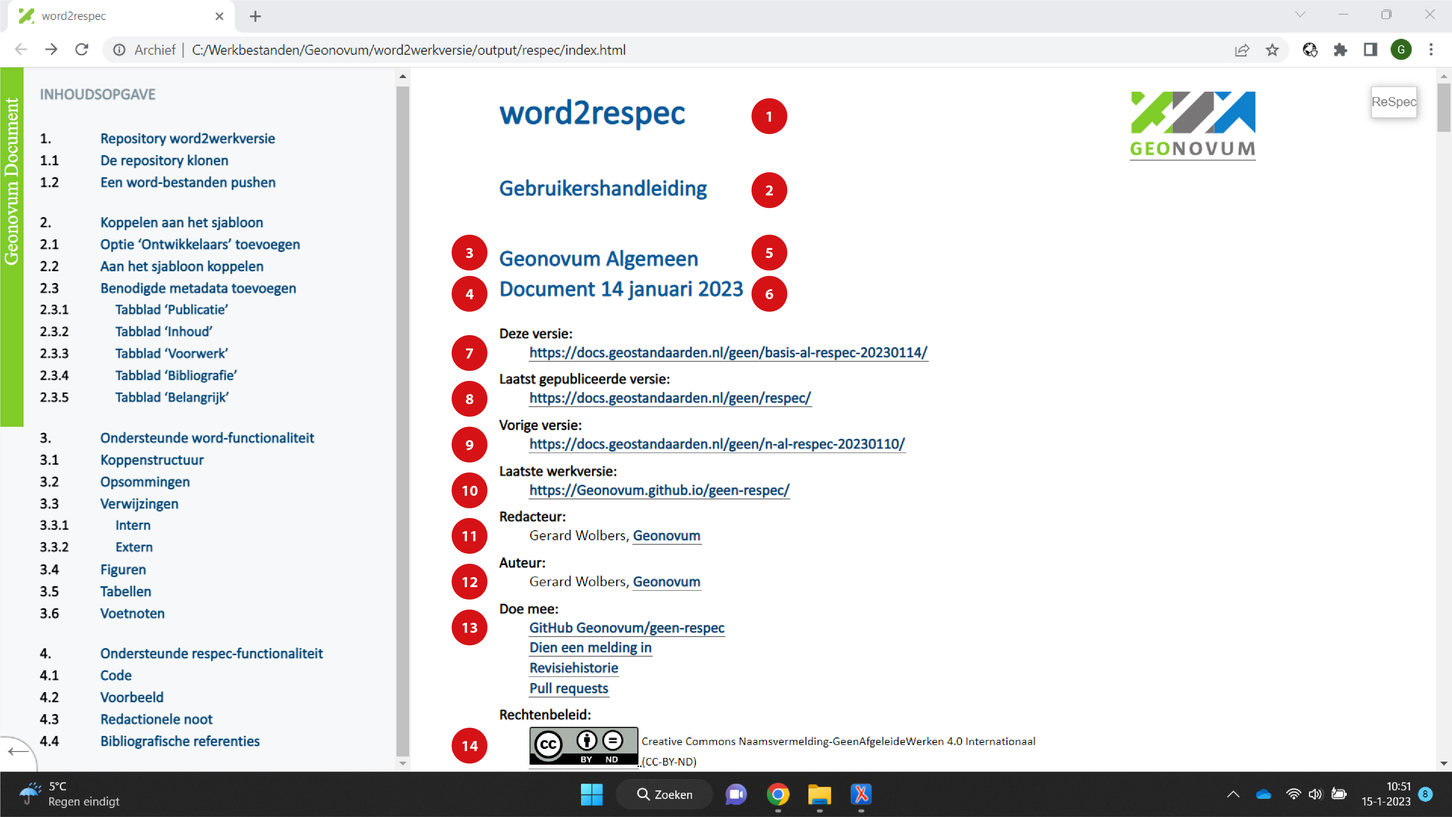
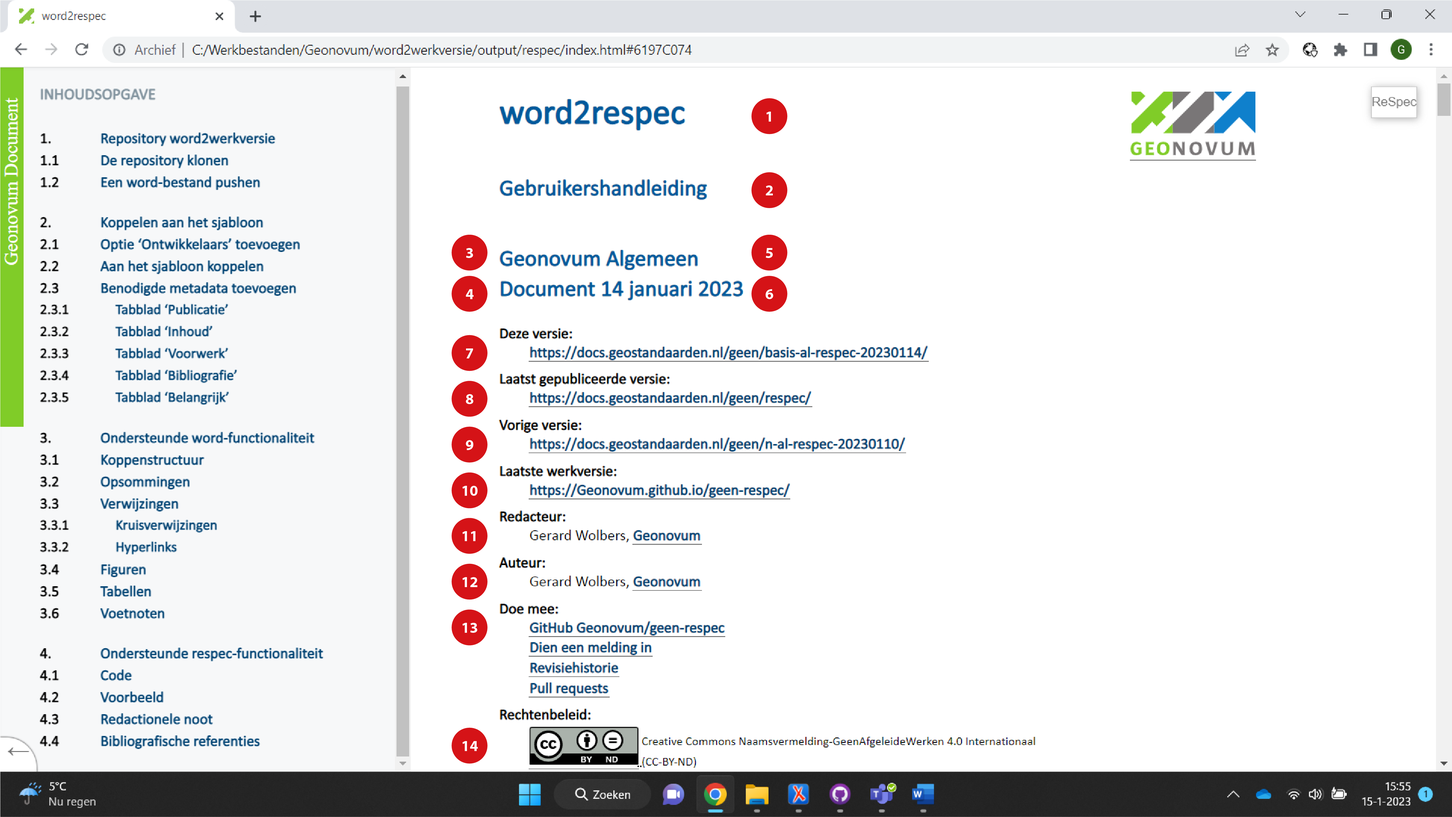
Update from https://github.com/Geonovum/word2werkversie/commit/2ee5777261af395d58a39a1c7ee38d574c74b922

diff --git a/index.html b/index.html
@@ -1,1 +1,12 @@
-<?xml version="1.0" encoding="UTF-8"?><!DOCTYPE html><html lang="nl"><head><meta content="text/html; charset=UTF-8" http-equiv="content-type"></meta><meta name="viewport" content="width=device-width, initial-scale=1, shrink-to-fit=no"></meta><title>word2respec</title><script src="https://tools.geostandaarden.nl/respec/builds/respec-geonovum.js"></script><script src="js/config.js"></script></head><body><link rel="stylesheet" type="text/css" href="css/style.css"></link><section id="abstract" class="remove"></section><section id="sotd" class="remove"></section><section id="6AE956A5" class="body"><h1 id="x1-6AE956A5">Repository word2werkversie</h1><p>In de repository word2werkversie is een workflow ingericht waarmee u zelf word-bestanden om kunt zetten naar een respec-werkversies. U heeft hiervoor een lokale kopie van de repository nodig.</p><section id="0209AAC7" class="body"><h2 id="x1-1-0209AAC7">De repository klonen</h2><p>Een handige applicatie voor het beheer van uw GitHub-repositories is GitHub Desktop.</p><figure><img src="media/image1.png" alt="media/image1.png" style="width: 100%;"></img><figcaption>Toevoegen van een repository</figcaption></figure><figure><img src="media/image2.png" alt="media/image2.png" style="width: 100%;"></img><figcaption>Zoek repository word2werkversie</figcaption></figure><p>Hiermee worden alle benodigde bestanden lokaal opgeslagen. De map word2werkversie/input bevat het sjabloon respec.dotm en het te converteren word-bestand. Er mag maar één docx-bestand in de map staan. Houd er rekening mee dat meer gebruikers de repository gebruiken. Uw word-bestand wordt dan verwijderd.</p></section><section id="6417117B" class="body"><h2 id="x1-2-6417117B">Een word-bestanden pushen</h2><p>De repository word2werkversie bevat een action dat het gepushte word-bestand omzet naar respec-bestanden en deze plaatst in een GitHub-repository.</p><figure><img src="media/image3.png" alt="media/image3.png" style="width: 100%;"></img><figcaption>Commit het word-bestand</figcaption></figure><figure><img src="media/image4.png" alt="media/image4.png" style="width: 100%;"></img><figcaption>Push het word-bestand</figcaption></figure><p>Na de push start op de GitHub-repository een action dat de transformatie uitvoert.</p><figure><img src="media/image5.png" alt="media/image5.png" style="width: 100%;"></img><figcaption>Overzicht van uitgevoerde transformaties</figcaption></figure><figure><img src="media/image6.png" alt="media/image6.png" style="width: 100%;"></img><figcaption>De nieuwe repository</figcaption></figure><figure><img src="media/image7.png" alt="media/image7.png" style="width: 100%;"></img><figcaption>De pages-variant</figcaption></figure></section></section><section id="06895138" class="body"><h1 id="x2-06895138">Koppelen aan het sjabloon</h1><p>Een bestaand word-bestand moet gekoppeld worden aan sjabloon respec.dotm. Hiervoor zijn in word verschillende stappen nodig.</p><ol><li><p>Voeg aan het menu optie ‘Ontwikkelaars’ toe. Dit is een eenmalige handeling.</p></li><li><p>Koppel het word-bestand aan het sjabloon.</p></li><li><p>Vul alle benodigde metadata in.</p></li></ol><section id="6557F24B" class="body"><h2 id="x2-1-6557F24B">Optie ‘Ontwikkelaars’ toevoegen</h2><p>Standaard staat in word de optie ‘Ontwikkelaars’ uit. Deze zet u aan bij menu-optie ‘Bestand’, ‘Opties’. Bij ‘Lint aanpassen’ vinkt u optie ‘Ontwikkelaars’ aan. Deze verschijnt dan in het menu.</p><figure><img src="media/image8.png" alt="media/image8.png" style="width: 100%;"></img><figcaption>Vink optie ‘Ontwikkelaars’ aan</figcaption></figure></section><section id="5C4981C0" class="body"><h2 id="x2-2-5C4981C0">Aan het sjabloon koppelen</h2><p>Bij menu-optie ‘Onwikkelaars’ ziet u in de werkbalk rechts de optie ‘Documentsjabloon’. Als u deze selecteert, krijgt u het volgende scherm.</p><figure><img src="media/image9.png" alt="media/image9.png" style="width: 100%;"></img><figcaption>Scherm ‘Sjablonen en invoegtoepassingen’</figcaption></figure><p>Met ‘Bijvoegen’ selecteert u sjabloon respec.dotm in de map ‘input’ van uw lokale repository. Er verschijnt een nieuwe menu-optie ‘Respec’.</p></section><section id="6197C074" class="body"><h2 id="x2-3-6197C074">Benodigde metadata toevoegen</h2><p>Om het word-bestand goed te kunnen transformeren naar een nieuwe respec-werkversie moet u metadata meegeven. Hiervoor heeft de respec-werkbalk links de optie ‘Document’.</p><figure><a name="_Ref124667820"></a><img src="media/image10.png" alt="media/image10.png" style="width: 100%;"></img><figcaption><a name="_Ref124667820"></a>Het voorblad wordt ‘gevoed’ vanuit scherm ‘Document’</figcaption></figure><section id="36478F31" class="body"><h3 id="x2-3-1-36478F31">Tabblad ‘Publicatie’</h3><p>Voor de publicatie zijn onderstaande gegevens van belang (zie <a href="#_Ref124667820">Figuur 10</a>).</p><ul><li><p>Titel (1) wordt gebruikt in het voorwerk van de publicatie.</p></li><li><p>Subtitel (2) is optioneel.</p></li><li><p>Identifier wordt gebruikt in verschillende url’s. Als de identifier is weggelaten wordt er een uri-bestendige variant van de titel als identifier gebruikt.</p></li><li><p>Domein verwijst naar het project. In dit geval is er geen domein. Het domein is heel belangrijk in de opbouw van de url’s.</p></li><li><p>Status (4) van het document geeft aan in welk stadium de publicatie is.</p></li><li><p>Type (5) geeft het type publicatie aan.</p></li><li><p>Licentie (14) geeft aan onder welke licentie het document wordt gepubliceerd.</p></li><li><p>Publicatiedatum (7) wordt gebruikt als versie-aanduiding in de url.</p></li><li><p>Voorgaande publicatiedatum (9) wordt gebruikt als versie-aanduiding in de url van de vorige versie. Als deze wordt weggelaten, dan wordt ‘Vorige versie’ niet getoond.</p></li><li><p>Status van de voorgaande publicatie wordt gebruikt om de url samen te stellen.</p></li><li><p>GitHub geeft aan of het blok ‘Doe mee’ (13) wordt getoond.</p></li></ul><figure><img src="media/image11.png" alt="media/image11.png" style="width: 73.33279012748055%;"></img><figcaption>Tabblad ‘Publicatie’</figcaption></figure></section><section id="1DA7B3C6" class="body"><h3 id="x2-3-2-1DA7B3C6">Tabblad ‘Inhoud’</h3><p>Respec heeft meer informatie nodig over de opbouw van de publicatie. Op basis hiervan verandert de werking. In het scherm worden alle hoofdstukken opgesomd. Voorwaarde is wel dat de koppenstructuur (zie <a href="#_Ref124671954">3.1</a>) met opmaakprofiel ‘Kop 1’ is aangegeven. Respec zet dit om naar html-secties. Van elke sectie kunnen we op het hoogste niveau het type en het soort informatie opgeven.</p><ul><li><p>Het type sectie geeft aan of het voorwerk of een bijlage is. Bij optie ‘Voorwerk’ wordt het weggelaten uit de inhoudsopgave. De koppen krijgen in de publicatie geen nummering. Bij optie ‘Bijlage’ wordt de nummering met kapitale letters aangegeven.</p></li><li><p class="space-after">Bij het soort informatie is er één optie ‘Informatief’. Als de optie wordt weggelaten, ziet respec het als normatieve informatie. Als een sectie wordt gemarkeerd als informatief, dan wordt onder de kop de tekst ‘Dit onderdeel is niet normatief’ weergegeven. Daarnaast worden bibliografische verwijzingen (zie <a href="#_Ref124671880">4.4</a>) aangegeven als ‘Informatieve referenties’.</p></li></ul><figure><img src="media/image12.png" alt="media/image12.png" style="width: 73.33279012748055%;"></img><figcaption>Tabblad ‘Inhoud’</figcaption></figure></section><section id="59427DAE" class="body"><h3 id="x2-3-3-59427DAE">Tabblad ‘Voorwerk’</h3><p>Met dit tabblad worden de auteurs (12) en redacteuren (11) opgegeven. Zie ook <a href="#_Ref124667820">Figuur 10</a> voor de nummering. Er is minimaal één redacteur nodig, auteurs zijn optioneel. U voegt een auteur of redacteur toe met optie ‘Nieuw’. Vul daarna naam, bedrijfsnaam en url van het bedrijf in. De url moet volledig zijn, dus inclusief ‘https://’.</p><figure><img src="media/image13.png" alt="media/image13.png" style="width: 73.33279012748055%;"></img><figcaption>Tabblad ‘Voorwerk’</figcaption></figure></section><section id="47906F38" class="body"><h3 id="x2-3-4-47906F38">Tabblad ‘Bibliografie’</h3></section><section id="01606068" class="body"><h3 id="x2-3-5-01606068">Tabblad ‘Belangrijk’</h3></section></section></section><section id="2E63D1F3" class="body"><h1 id="x3-2E63D1F3">Ondersteunde word-functionaliteit</h1><section id="2E987008" class="body"><h2 id="x3-1-2E987008"><a name="_Ref124671954"></a>Koppenstructuur</h2></section><section id="10DDDABF" class="body"><h2 id="x3-2-10DDDABF">Opsommingen</h2></section><section id="15D453C9" class="body"><h2 id="x3-3-15D453C9">Verwijzingen</h2><section id="5606CB85" class="body"><h3 id="x3-3-1-5606CB85">Intern</h3></section><section id="724923FE" class="body"><h3 id="x3-3-2-724923FE">Extern</h3></section></section><section id="27284A38" class="body"><h2 id="x3-4-27284A38">Figuren</h2></section><section id="4FB3FFF7" class="body"><h2 id="x3-5-4FB3FFF7">Tabellen</h2></section><section id="476F745B" class="body"><h2 id="x3-6-476F745B">Voetnoten</h2></section></section><section id="15D08FC1" class="body"><h1 id="x4-15D08FC1">Ondersteunde respec-functionaliteit</h1><section id="692AB1A3" class="body"><h2 id="x4-1-692AB1A3">Code</h2></section><section id="13F17295" class="body"><h2 id="x4-2-13F17295">Voorbeeld</h2></section><section id="47F487E8" class="body"><h2 id="x4-3-47F487E8">Redactionele noot</h2></section><section id="4083BE20" class="body"><h2 id="x4-4-4083BE20"><a name="_Ref124671880"></a>Bibliografische referenties</h2></section></section></body></html>
+<?xml version="1.0" encoding="UTF-8"?><!DOCTYPE html><html lang="nl"><head><meta content="text/html; charset=UTF-8" http-equiv="content-type"></meta><meta name="viewport" content="width=device-width, initial-scale=1, shrink-to-fit=no"></meta><title>word2respec</title><script src="https://tools.geostandaarden.nl/respec/builds/respec-geonovum.js"></script><script src="js/config.js"></script></head><body><link rel="stylesheet" type="text/css" href="css/style.css"></link><section id="abstract" class="remove"></section><section id="sotd" class="remove"></section><section id="6AE956A5" class="body"><h1 id="x1-6AE956A5"><a name="_Repository_word2werkversie"></a>Repository word2werkversie</h1><p>In de repository word2werkversie is een workflow ingericht waarmee u zelf word-bestanden om kunt zetten naar een respec-werkversies. U heeft hiervoor een lokale kopie van de repository nodig.</p><section id="0209AAC7" class="body"><h2 id="x1-1-0209AAC7">De repository klonen</h2><p>Een handige applicatie voor het beheer van uw GitHub-repositories is GitHub Desktop.</p><figure><img src="media/image1.png" alt="media/image1.png" style="width: 100%;"></img><figcaption>Toevoegen van een repository</figcaption></figure><figure><img src="media/image2.png" alt="media/image2.png" style="width: 100%;"></img><figcaption>Zoek repository word2werkversie</figcaption></figure><p>Hiermee worden alle benodigde bestanden lokaal opgeslagen. De map word2werkversie/input bevat het sjabloon respec.dotm en het te converteren word-bestand. Er mag maar één docx-bestand in de map staan. Houd er rekening mee dat meer gebruikers de repository gebruiken. Uw word-bestand wordt dan verwijderd.</p></section><section id="6417117B" class="body"><h2 id="x1-2-6417117B">Een word-bestand pushen</h2><p>De repository word2werkversie bevat een action dat het gepushte word-bestand omzet naar respec-bestanden en deze plaatst in een GitHub-repository.</p><figure><img src="media/image3.png" alt="media/image3.png" style="width: 100%;"></img><figcaption>Commit het word-bestand</figcaption></figure><figure><img src="media/image4.png" alt="media/image4.png" style="width: 100%;"></img><figcaption>Push het word-bestand</figcaption></figure><p>Na de push start op de GitHub-repository een action dat de transformatie uitvoert.</p><figure><img src="media/image5.png" alt="media/image5.png" style="width: 100%;"></img><figcaption>Overzicht van uitgevoerde transformaties</figcaption></figure><figure><img src="media/image6.png" alt="media/image6.png" style="width: 100%;"></img><figcaption>De nieuwe repository</figcaption></figure><figure><img src="media/image7.png" alt="media/image7.png" style="width: 100%;"></img><figcaption>De pages-variant</figcaption></figure></section></section><section id="06895138" class="body"><h1 id="x2-06895138">Koppelen aan het sjabloon</h1><p>Een bestaand word-bestand moet gekoppeld worden aan sjabloon respec.dotm. Hiervoor zijn in word verschillende stappen nodig.</p><ol><li><p>Voeg aan het menu optie ‘Ontwikkelaars’ toe. Dit is een eenmalige handeling.</p></li><li><p>Koppel het word-bestand aan het sjabloon.</p></li><li><p>Vul alle benodigde metadata in.</p></li></ol><section id="6557F24B" class="body"><h2 id="x2-1-6557F24B">Optie ‘Ontwikkelaars’ toevoegen</h2><p>Standaard staat in word de optie ‘Ontwikkelaars’ uit. Deze zet u aan bij menu-optie ‘Bestand’, ‘Opties’. Bij ‘Lint aanpassen’ vinkt u optie ‘Ontwikkelaars’ aan. Deze verschijnt dan in het menu.</p><figure><img src="media/image8.png" alt="media/image8.png" style="width: 100%;"></img><figcaption>Vink optie ‘Ontwikkelaars’ aan</figcaption></figure></section><section id="5C4981C0" class="body"><h2 id="x2-2-5C4981C0">Aan het sjabloon koppelen</h2><p>Bij menu-optie ‘Onwikkelaars’ ziet u in de werkbalk rechts de optie ‘Documentsjabloon’. Als u deze selecteert, krijgt u het volgende scherm.</p><figure><img src="media/image9.png" alt="media/image9.png" style="width: 100%;"></img><figcaption>Scherm ‘Sjablonen en invoegtoepassingen’</figcaption></figure><p>Met ‘Bijvoegen’ selecteert u sjabloon respec.dotm in de map ‘input’ van uw lokale repository. Met de optie ‘Stijlen van het document automatisch bijwerken’ kunt u de stijlen in het document overschrijven door de stijlen in het sjabloon. Dit heeft voordelen omdat u daarmee automatische nummeringen in de koppenstructuur importeert, maar heeft als nadeel dat uw vormgeving waarschijnlijk wijzigt.</p><p>Nadat u het document heeft gekoppeld aan het sjabloon zijn er twee belangrijke aanpassingen:</p><ul><li><p>Er verschijnt een nieuwe menu-optie ‘Respec’.</p></li><li><p>De optie ‘Plakken’ voegt alleen nog niet-opgemaakte Unicode-tekst toe. U kunt dit omzeilen met de optie ‘Plakken speciaal’ (Alt+Ctrl+V). Hiermee kunt u opgemaakte tekst toevoegen.</p></li></ul></section><section id="6197C074" class="body"><h2 id="x2-3-6197C074">Benodigde metadata toevoegen</h2><p>Om het word-bestand goed te kunnen transformeren naar een nieuwe respec-werkversie moet u metadata meegeven. Hiervoor heeft de respec-werkbalk links de optie ‘Document’.</p><figure><a name="_Ref124667820"></a><img src="media/image10.png" alt="media/image10.png" style="width: 100%;"></img><figcaption><a name="_Ref124667820"></a>Het voorblad wordt ‘gevoed’ vanuit scherm ‘Document’</figcaption></figure><section id="36478F31" class="body"><h3 id="x2-3-1-36478F31">Tabblad ‘Publicatie’</h3><p>Voor de publicatie zijn onderstaande gegevens van belang (zie <a href="#_Ref124667820">Figuur 10</a>).</p><ul><li><p>Titel (1) wordt gebruikt in het voorwerk van de publicatie.</p></li><li><p>Subtitel (2) is optioneel.</p></li><li><p>Identifier wordt gebruikt in verschillende url’s. Als de identifier is weggelaten wordt er een uri-bestendige variant van de titel als identifier gebruikt.</p></li><li><p>Domein verwijst naar het project. In dit geval is er geen domein. Het domein is heel belangrijk in de opbouw van de url’s.</p></li><li><p>Status (4) van het document geeft aan in welk stadium de publicatie is.</p></li><li><p>Type (5) geeft het type publicatie aan.</p></li><li><p>Licentie (14) geeft aan onder welke licentie het document wordt gepubliceerd.</p></li><li><p>Publicatiedatum (7) wordt gebruikt als versie-aanduiding in de url.</p></li><li><p>Voorgaande publicatiedatum (9) wordt gebruikt als versie-aanduiding in de url van de vorige versie. Als deze wordt weggelaten, dan wordt ‘Vorige versie’ niet getoond.</p></li><li><p>Status van de voorgaande publicatie wordt gebruikt om de url samen te stellen.</p></li><li><p>GitHub geeft aan of het blok ‘Doe mee’ (13) wordt getoond.</p></li></ul><figure><img src="media/image11.png" alt="media/image11.png" style="width: 73.33279012748055%;"></img><figcaption>Tabblad ‘Publicatie’</figcaption></figure></section><section id="1DA7B3C6" class="body"><h3 id="x2-3-2-1DA7B3C6"><a name="_Ref124693607"></a>Tabblad ‘Inhoud’</h3><p>Respec heeft meer informatie nodig over de opbouw van de publicatie. Op basis hiervan verandert de werking. In het scherm worden alle hoofdstukken opgesomd. Voorwaarde is wel dat de koppenstructuur (zie <a href="#_Ref124671954">3.1</a>) met stijl ‘Kop 1’ is aangegeven. Respec zet dit om naar html-secties. Van elke sectie kunnen we op het hoogste niveau het type en het soort informatie opgeven.</p><ul><li><p>Het type sectie geeft aan of het voorwerk of een bijlage is. Bij optie ‘Voorwerk’ wordt het weggelaten uit de inhoudsopgave. De koppen krijgen in de publicatie geen nummering. Bij optie ‘Bijlage’ wordt de nummering met kapitale letters aangegeven.</p></li><li><p class="space-after">Bij het soort informatie is er één optie ‘Informatief’. Als de optie wordt weggelaten, ziet respec het als normatieve informatie. Als een sectie wordt gemarkeerd als informatief, dan wordt onder de kop de tekst ‘Dit onderdeel is niet normatief’ weergegeven. Daarnaast worden bibliografische verwijzingen (zie <a href="#_Ref124671880">Figuur 23</a>) aangegeven als ‘Informatieve referenties’.</p></li></ul><p>Respec kan ook specifieke informatie toevoegen. U kunt deze aanvinken.</p><figure><img src="media/image12.png" alt="media/image12.png" style="width: 73.33279012748055%;"></img><figcaption>Tabblad ‘Inhoud’</figcaption></figure></section><section id="59427DAE" class="body"><h3 id="x2-3-3-59427DAE">Tabblad ‘Voorwerk’</h3><p>Met dit tabblad worden de auteurs (12) en redacteuren (11) opgegeven. Zie ook <a href="#_Ref124667820">Figuur 10</a> voor de nummering. Er is minimaal één redacteur nodig, auteurs zijn optioneel. U voegt een auteur of redacteur toe met optie ‘Nieuw’. Vul daarna naam, bedrijfsnaam en url van het bedrijf in. De url moet volledig zijn, dus inclusief ‘https://’. Als u een auteur of redacteur wilt verwijderen, selecteert u de desbetreffende naam en maakt u veld ‘Naam’ leeg.</p><figure><img src="media/image13.png" alt="media/image13.png" style="width: 73.33279012748055%;"></img><figcaption>Tabblad ‘Voorwerk’</figcaption></figure></section><section id="47906F38" class="body"><h3 id="x2-3-4-47906F38"><a name="_Ref124693355"></a>Tabblad ‘Bibliografie’</h3><p>Respec ondersteunt bibliografische referenties (zie <a href="#_Ref124671880">Figuur 23</a>). U kunt deze opgeven met tabblad ‘Bibliografie’. U voegt een publicatie toe met optie ‘Nieuw’. Vul daarna de onderstaande velden in. Alle velden zijn optioneel behalve veld ‘Titel’. Als u een publicatie wilt verwijderen, selecteert u de desbetreffende titel en maakt u veld ‘Titel’ leeg.</p><figure><img src="media/image14.png" alt="media/image14.png" style="width: 73.33279012748055%;"></img><figcaption>Tabblad ‘Bibliografie’</figcaption></figure></section><section id="01606068" class="body"><h3 id="x2-3-5-01606068">Tabblad ‘Belangrijk’</h3><p>Dit tabblad is voor de workflow word2werkversie niet van belang. De workflow word2publicatie gebruikt het om de definitieve publicatie op de server docs.geostandaarden.nl te plaatsen. In andere gevallen wordt de test-omgeving test.docs.geostandaarden.nl gebruikt.</p><figure><img src="media/image15.png" alt="media/image15.png" style="width: 73.33279012748055%;"></img><figcaption>Tabblad ‘Belangrijk’</figcaption></figure></section></section></section><section id="2E63D1F3" class="body"><h1 id="x3-2E63D1F3">Ondersteunde word-functionaliteit</h1><section id="2E987008" class="body"><h2 id="x3-1-2E987008"><a name="_Ref124671954"></a>Koppenstructuur</h2><p>Alle transformaties in de word2respec-workflow zijn gebaseerd op het gebruik van de stijlen ‘Kop 1’ t/m ‘Kop 9’. Overigens biedt dit veel extra mogelijkheden binnen word. Het venster ‘Stijlen’ opent (en sluit) u met toetscombinatie Alt+Ctrl-Shift+S.</p><figure><img src="media/image16.png" alt="media/image16.png" style="width: 100%;"></img><figcaption>Navigatie op basis van de koppenstructuur</figcaption></figure></section><section id="10DDDABF" class="body"><h2 id="x3-2-10DDDABF">Opsommingen</h2><p>Er zijn twee typen opsommingen, genummerd en met tekens. Hiervoor dient u de word-functie ‘Opsommingen’ te gebruiken. De opsommingen mogen gedefinieerd zijn in de stijl. De opsomming wordt omgezet naar opsommingen zoals ze voor het specifieke domein zijn gedefinieerd in het css-bestand. Dus het is mogelijk dat een opsomming met kapitale letters wordt omgezet naar Romeinse cijfers.</p></section><section id="15D453C9" class="body"><h2 id="x3-3-15D453C9">Verwijzingen</h2><p>Omdat de koppenstructuur, figuurnummers en tabelnummers worden gegenereerd door respec, is het niet verstandig om verwijzingen als tekst op te nemen. Dit kan op twee manieren:</p><ul><li><p>met kruisverwijzingen,</p></li><li><p>met interne verwijzingen.</p></li></ul><section id="44411ED5" class="body"><h3 id="x3-3-1-44411ED5"><a name="_Ref124680588"></a>Kruisverwijzingen</h3><p>Hiervoor gebruikt u de word-functie ‘Kruisverwijzing’ (Alt+Ctrl+Shift+K). Hiermee kunt u verwijzen naar alle mogelijke genummerde alinea’s.</p><figure><img src="media/image17.png" alt="media/image17.png" style="width: 59.99955555884772%;"></img><figcaption>Scherm ‘Kruisverwijzing’</figcaption></figure><figure><img src="media/image18.png" alt="media/image18.png" style="width: 100%;"></img><figcaption>Weergave van een kruiskoppeling in respec</figcaption></figure></section><section id="0A825EF3" class="body"><h3 id="x3-3-2-0A825EF3">Hyperlinks</h3><p>Ook hyperlinks worden doorgegeven in de respec-weergave. Met scherm ‘Hyperlink invoegen’ (Ctrl+K) voegt u een hyperlink toe, bijvoorbeeld naar hoofdstuk <a href="#6AE956A5">Repository word2werkversie</a>.</p><figure><img src="media/image19.png" alt="media/image19.png" style="width: 100%;"></img><figcaption>Scherm voor het invoegen en bewerken van hyperlinks</figcaption></figure><figure><img src="media/image20.png" alt="media/image20.png" style="width: 100%;"></img><figcaption>Weergave van een hyperlink in respec</figcaption></figure></section></section><section id="27284A38" class="body"><h2 id="x3-4-27284A38">Figuren</h2><p class="space-after">Het veiligst is om figuren met tekstomloop ‘In tekstregel’ te gebruiken. De transformatie moet namelijk weten waar in de tekst een figuur ‘verankerd’ is. Dit is in word de standaard-mogelijkheid voor het plaatsen van figuren. De omvang van een figuur wordt berekend aan de hand van de breedte. De verhouding tussen de figuurbreedte en tekstbreedte wordt gebruikt in de uiteindelijke respec-weergave. Als de figuurbreedte meer dan 90% van de tekstbreedte is, wordt het uitgevuld naar de volledige tekstbreedte.</p><p>Het is mogelijk om met kruisverwijzingen (zie <a href="#_Ref124680588">3.3.1</a>) te verwijzen naar een figuur. De alinea onder de figuur wordt omgezet naar een figuurbijschrift als u het markeert met stijl ‘Figuurbijschrift’ of ‘Bijschrift’.</p></section><section id="4FB3FFF7" class="body"><h2 id="x3-5-4FB3FFF7">Tabellen</h2><p>Tabellen worden volledig door de workflow word2respec ondersteund:</p><ul><li><p>Tabelstijlen en tabeleigenschappen worden ondersteund.</p></li><li><p>De celopmaak wordt overgenomen.</p></li><li><p>Kolombreedte wordt overgenomen.</p></li><li><p class="space-after">Samengevoegde cellen verticaal en horizontaal worden ondersteund.</p></li></ul><p>Als u de alinea boven de tabel markeert met stijl ‘Tabeltitel’ of ‘Bijschrift’, dan wordt de alinea verwerkt als tabeltitel. In de tekst kunt u verwijzen naar de tabeltitel (zie <a href="#_Ref124680588">3.3.1</a>). Merk op dat respec in de weergave de tabeltitel niet weergeeft met een nummering. Onderstaand is een voorbeeldtekst.</p><table style="width: 100%;"><caption>Vergelijking met huidige rechtsfiguren en RO Standaarden</caption><colgroup><col id="col1" style="width: 35.00117730162467%;"></col><col id="col2" style="width: 64.99882269837532%;"></col></colgroup><thead valign="top"><tr><th align="left" style="border-top: 0.5pt solid #000000; border-left: 0.5pt solid #000000; border-bottom: 0.5pt solid #000000; border-right: 0.5pt solid #000000; background-color: #000000;"><p><b><span style="color: #FFFFFF;">Onderwerp</span></b></p></th><th align="left" style="border-top: 0.5pt solid #000000; border-left: 0.5pt solid #000000; border-bottom: 0.5pt solid #000000; border-right: 0.5pt solid #000000; background-color: #000000;"><p><b><span style="color: #FFFFFF;">Specificatie</span></b></p></th></tr></thead><tbody valign="top"><tr><td align="left" style="border-top: 0.5pt solid #000000; border-left: 0.5pt solid #000000; border-bottom: 0.5pt solid #000000; border-right: 0.5pt solid #000000; background-color: #FFFFFF;"><p><span style="color: #000000;">Vergelijkbaar met / voortzetting van huidige rechtsfiguur</span></p></td><td align="left" style="border-top: 0.5pt solid #000000; border-left: 0.5pt solid #000000; border-bottom: 0.5pt solid #000000; border-right: 0.5pt solid #000000; background-color: #FFFFFF;"><ul><li><p><span style="color: #000000;">bestemmingsplan, uitwerkingsplan, wijzigingsplan en inpassingsplan op basis van Wro</span></p></li><li><p><span style="color: #000000;">beheersverordening op basis van Wro</span></p></li><li><p><span style="color: #000000;">bestemmingsplan met verbrede reikwijdte op basis van Crisis- en herstelwet</span></p></li><li><p><span style="color: #000000;">welstandsnota op basis van Woningwet</span></p></li><li><p><span style="color: #000000;">erfgoedverordening op basis van Monumentenwet</span></p></li><li><p><span style="color: #000000;">algemene plaatselijke verordening op basis van Gemeentewet</span></p></li><li><p><span style="color: #000000;">…</span></p></li></ul></td></tr><tr><td align="left" style="border-top: 0.5pt solid #000000; border-left: 0.5pt solid #000000; border-bottom: 0.5pt solid #000000; border-right: 0.5pt solid #000000; background-color: #FFFFFF;"><p><span style="color: #000000;">Voortzetting van instrument in RO Standaarden</span></p></td><td align="left" style="border-top: 0.5pt solid #000000; border-left: 0.5pt solid #000000; border-bottom: 0.5pt solid #000000; border-right: 0.5pt solid #000000; background-color: #FFFFFF;"><p><span style="color: #000000;">Ja, bestemmingsplan en beheersverordening</span></p></td></tr><tr><td align="left" style="border-top: 0.5pt solid #000000; border-left: 0.5pt solid #000000; border-bottom: 0.5pt solid #000000; border-right: 0.5pt solid #000000; background-color: #FFFFFF;"><p><span style="color: #000000;">INSPIRE-thema</span></p></td><td align="left" style="border-top: 0.5pt solid #000000; border-left: 0.5pt solid #000000; border-bottom: 0.5pt solid #000000; border-right: 0.5pt solid #000000; background-color: #FFFFFF;"><p><span style="color: #000000;">Planned Land Use: SpatialPlan</span></p></td></tr></tbody></table></section><section id="476F745B" class="body"><h2 id="x3-6-476F745B">Voetnoten</h2><p class="space-after">De transformatie ondersteunt niet-complexe voetnoten. Onderstaand is een voorbeeldtekst.</p><p style="margin-left: 10.0mm;">Op grond van artikel 20.26 lid 2 Omgevingswet worden besluiten en andere rechtsfiguren op grond van die wet die bij ministeriële regeling zijn aangeduid als omgevingsdocument, ontsloten via DSO-LV. De bedoelde ministeriële regeling is de Regeling standaarden publicaties Omgevingswet<span class="noot">[1]<span class="noottekst"> De Regeling standaarden publicaties Omgevingswet is een ministeriële regeling bij de Bekendmakingswet<br/></span></span>. Deze regeling wijst besluiten en andere rechtsfiguren aan als omgevingsdocument en stelt het verplicht om die omgevingsdocumenten, en ontwerpen daarvan, elektronisch vorm te geven conform de Standaard voor Officiële Publicaties, het InformatieModel Omgevingswet en het voor het betreffende omgevingsdocument voorgeschreven toepassingsprofiel. Ook bevat deze regeling de verplichting om omgevingsdocumenten voor publicatie aan te bieden aan het Bronhouderkoppelvlak van de LVBB.</p><figure><img src="media/image21.png" alt="media/image21.png" style="width: 100%;"></img><figcaption>Respec-weergave van een voetnoot.</figcaption></figure></section></section><section id="15D08FC1" class="body"><h1 id="x4-15D08FC1">Ondersteunde respec-functionaliteit</h1><p>In respec-weergave komen tekstsoorten voor waarvoor we een specifieke word-opmaak hebben afgesproken.</p><section id="692AB1A3" class="body"><h2 id="x4-1-692AB1A3">Code</h2><p class="space-after">Een code-blok wordt in word aangegeven door het hele blok blauw te markeren. Onderstaand is voorbeeldtekst.</p><pre class="example"><code>&lt;xsl:template match="w14:checkbox"&gt;
+    &lt;xsl:element name="input"&gt;
+        &lt;xsl:attribute name="class" select="string('task-list-item-checkbox')"/&gt;
+        &lt;xsl:attribute name="id" select="generate-id(.)"/&gt;
+        &lt;xsl:attribute name="style" select="string('margin-right: 2mm;')"/&gt;
+        &lt;xsl:attribute name="type" select="string('checkbox')"/&gt;
+        &lt;xsl:if test="w14:checked/@w14:val=1"&gt;
+            &lt;xsl:attribute name="checked"/&gt;
+        &lt;/xsl:if&gt;
+    &lt;/xsl:element&gt;
+&lt;/xsl:template&gt;
+</code></pre></section><section id="13F17295" class="body"><h2 id="x4-2-13F17295">Voorbeeld</h2><p class="space-after">Een voorbeeld wordt aangegeven door de alinea geel te markeren. Onderstaand is voorbeeldtekst.</p><aside class="example"><p>Op grond van artikel 20.26 lid 2 Omgevingswet worden besluiten en andere rechtsfiguren op grond van die wet die bij ministeriële regeling zijn aangeduid als omgevingsdocument, ontsloten via DSO-LV. De bedoelde ministeriële regeling is de Regeling standaarden publicaties Omgevingswet<span class="noot">[2]<span class="noottekst"> De Regeling standaarden publicaties Omgevingswet is een ministeriële regeling bij de Bekendmakingswet<br/></span></span>. Deze regeling wijst besluiten en andere rechtsfiguren aan als omgevingsdocument en stelt het verplicht om die omgevingsdocumenten, en ontwerpen daarvan, elektronisch vorm te geven conform de Standaard voor Officiële Publicaties, het InformatieModel Omgevingswet en het voor het betreffende omgevingsdocument voorgeschreven toepassingsprofiel. Ook bevat deze regeling de verplichting om omgevingsdocumenten voor publicatie aan te bieden aan het Bronhouderkoppelvlak van de LVBB.</p></aside><figure><img src="media/image22.png" alt="media/image22.png" style="width: 100%;"></img><figcaption>Een code-blok wordt ook met een kop ‘Voorbeeld’ weergegeven</figcaption></figure></section><section id="47F487E8" class="body"><h2 id="x4-3-47F487E8">Redactionele noot</h2><p class="space-after">Een redactionele noot wordt aangegeven door de alinea groen te markeren. Onderstaand is voorbeeldtekst.</p><aside class="note"><p>Voor de beschrijving verwijzen we naar de documentatie in de bijlage.</p></aside><figure><a name="_Ref124671880"></a><img src="media/image23.png" alt="media/image23.png" style="width: 100%;"></img><figcaption>Respec-weergave van een redactionele noot</figcaption></figure></section><section id="4083BE20" class="body"><h2 id="x4-4-4083BE20">Bibliografische referenties</h2><p>Met menu-optie ‘Document’ tabblad ‘Bibliografie’ (zie <a href="#_Ref124693355">2.3.4</a>) in de respec-werkbalk kunt u publicaties opgeven waarnaar u met een bibligrafische referentie kunt verwijzen. Dit kan door de identifier van de publicatie tussen dubbele rechte haken te plaatsen: [[3DTILES]]. Respec voegt dan een bijlage toe met normatieve of informatieve referenties, afhankelijk van de opgegeven soort informatie (zie <a href="#_Ref124693607">2.3.2</a>).</p><figure><img src="media/image24.png" alt="media/image24.png" style="width: 100%;"></img><figcaption>Bijlage met normatieve referenties</figcaption></figure><figure><img src="media/image25.png" alt="media/image25.png" style="width: 100%;"></img><figcaption>Als een referentie ontbreekt, geeft respec een foutmelding</figcaption></figure></section></section></body></html>

diff --git a/js/config.js b/js/config.js
@@ -6,8 +6,6 @@ var respecConfig =
   specType: "AL",
   license: "cc-by-nd",
   publishDate: "2023-01-14",
-  previousPublishDate: "2023-01-10",
-  previousMaturity: "geen",
   content: {
     "section_000": "",
     "section_001": "",
@@ -29,10 +27,23 @@ var respecConfig =
       companyURL: "https://www.geonovum.nl/"
     }
   ],
+  localBiblio: {
+    "3DTILES": {
+      title: "3D Tiles Specification 1.0",
+      href: "http://docs.opengeospatial.org/cs/18-053r2/18-053r2.html",
+      authors: "",
+      publisher: "Open Geospatial Consortium (OGC)",
+      editors: [
+        "Patrick Cozzi",
+        "Sean Lilley",
+        "Gabby Getz"
+      ],
+      date: "2019-01-31",
+      status: "Approved for public release"
+    }
+  },
   shortName: "respec",
   format: "markdown",
-  github: "https://github.com/Geonovum/geen-respec/",
-  issueBase: "https://github.com/Geonovum/geen-respec/issues/",
   edDraftURI: "https://Geonovum.github.io/geen-respec/",
   publishISODate: "2023-01-14T00:00:00.000Z",
   generatedSubtitle: "Document 14 januari 2023"
